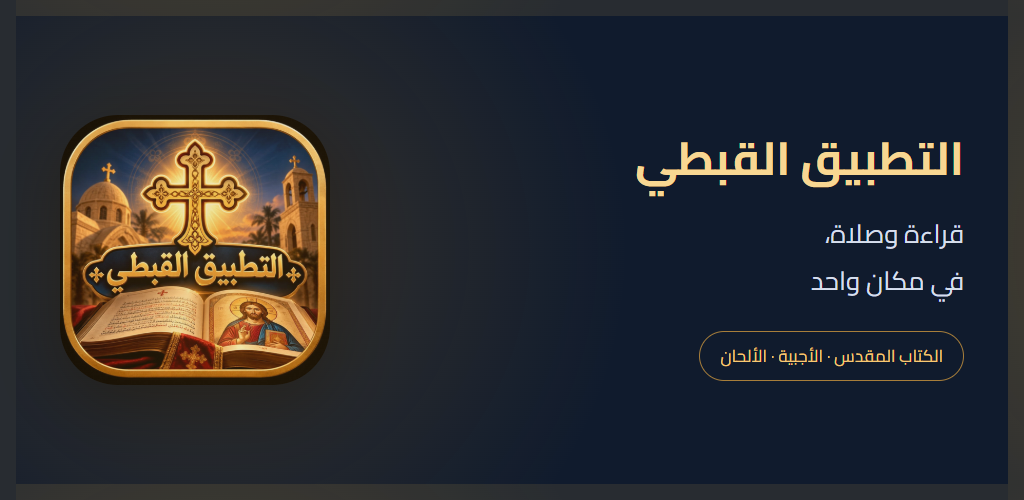
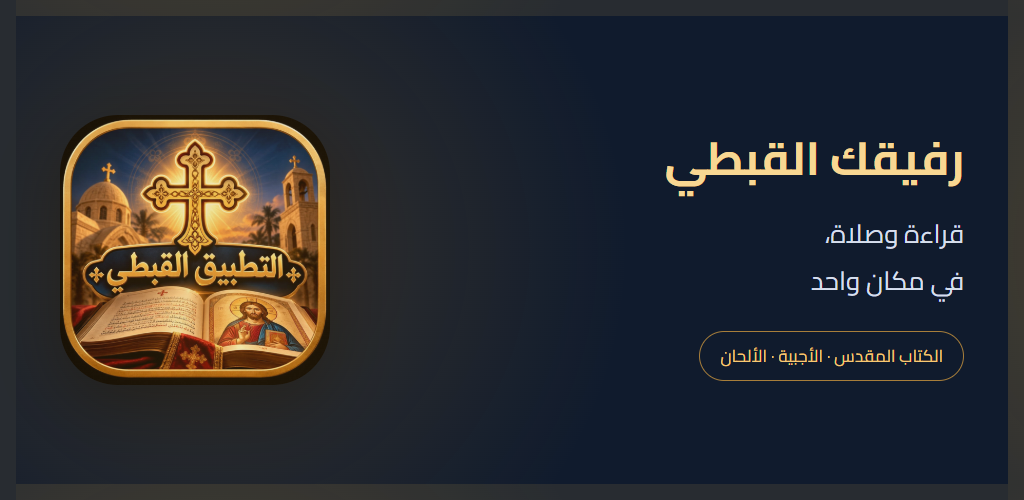
Adopt Rafiqak Coptic branding and prepare first Play listing

Changed region(s): [[0.625, 0.27, 0.9375, 0.39]]

diff --git a/privacy.html b/privacy.html
@@ -1,1 +1,1 @@
-<!doctype html><html lang="ar" dir="rtl"><head><meta charset="utf-8"><meta name="viewport" content="width=device-width,initial-scale=1"><title>الخصوصية — التطبيق القبطي</title><link rel="stylesheet" href="assets/fonts.css"><style>body{margin:0;background:#f6f2eb;color:#253244;font:17px/2 Cairo,sans-serif}main{max-width:820px;padding:32px 22px;margin:auto}h1,h2{color:#895e24}h2{font-size:1.2em}a{color:#895e24}small{color:#526079}</style></head><body><main><a href="index.html">العودة للتطبيق</a><h1>سياسة الخصوصية</h1><small>آخر تحديث: ١٤ أكتوبر ٢٠٢٦</small><p>توضح هذه الصفحة طريقة التعامل مع البيانات في «التطبيق القبطي»، بما في ذلك نسخة أندرويد. لا تحتاج القراءة إلى إنشاء حساب.</p><h2>بياناتك على الجهاز</h2><p>تُحفظ النوتات والمفضلة وآخر قراءة وإعدادات العرض على جهازك. لا يرفع التطبيق هذه البيانات تلقائيًا لخادم، ولا توجد مزامنة حسابات. حذف التطبيق أو بياناته قد يحذفها؛ استخدم النسخ الاحتياطي قبل تغيير الجهاز. ملفات التصدير تتضمن البيانات التي اخترت حفظها، وعند مشاركتها تصبح الجهة التي تختارها مسؤولة عن نسختها.</p><h2>مساعد الإيمان</h2><p>عند إرسال سؤال، تُرسل صياغة السؤال وبعض الرسائل السابقة والنصوص المرتبطة به عبر HTTPS إلى خادم التطبيق على Vercel، ثم إلى خدمة Gamaliel لإنتاج الإجابة. لا تُرسل النوتات أو المفضلة لهذا الغرض. المحادثة الحالية موجودة في ذاكرة الصفحة ولا يحفظها التطبيق بعد إعادة فتحه. قد تعالج خدمات الاستضافة ومزود الذكاء الاصطناعي بيانات الاتصال والسجلات الفنية حسب سياساتها؛ لا نفترض أن هذه الجهات لا تحتفظ بأي سجلات. تجنب إرسال معلومات شخصية أو حساسة في الأسئلة.</p><h2>الصوت والخدمات الخارجية</h2><p>تحتاج تسجيلات تسبحة ومشغلات SoundCloud والقطمارس إلى الإنترنت. عند استخدام خدمة خارجية، قد يصل إليها عنوان IP وبيانات المتصفح أو المشغّل، وقد تستخدم ملفات ارتباط حسب سياستها. مشغّل SoundCloud لا يُحمّل إلا عند طلب عرضه. روابط المصادر تفتح خدمات مستقلة.</p><h2>الأذونات والإعلانات</h2><p>لا يطلب التطبيق الوصول إلى الكاميرا أو الميكروفون أو جهات الاتصال أو الموقع. اختيار ملف احتياطي يتم عبر منتقي الملفات الخاص بالجهاز. مشاركة نسخة احتياطية تستخدم نافذة المشاركة التي تختار منها الوجهة. لا يضيف التطبيق إعلانات أو أدوات تتبع تحليلية خاصة به؛ الخدمات الخارجية قد تكون لها ممارسات مختلفة.</p><h2>التحكم والتواصل</h2><p>يمكنك حذف نوتاتك من داخل التطبيق، أو مسح بيانات التطبيق من إعدادات أندرويد لحذف البيانات المحلية كلها. يمكن الإبلاغ عن مشكلة خصوصية في <a href="https://github.com/marcoehaab11/amegoo/issues">صفحة الدعم</a>. لا تضع معلومات شخصية في البلاغ العام.</p><p>سياسات مزودي الخدمات: <a href="https://vercel.com/legal/privacy-policy">Vercel</a>، <a href="https://soundcloud.com/pages/privacy">SoundCloud</a>، <a href="https://gamaliel.ai">Gamaliel</a>.</p><h2>إشعارات الآية اليومية</h2><p>إشعارات أندرويد اختيارية. نطلب إذن الإشعارات عند تفعيلها فقط. الآيات والموعد محفوظان على الجهاز، ويُجدول الإشعار محليًا دون إرسال بيانات إلى خادم. يمكن إيقافها أو تغيير وقتها من الإعدادات.</p></main></body></html>
+<!doctype html><html lang="ar" dir="rtl"><head><meta charset="utf-8"><meta name="viewport" content="width=device-width,initial-scale=1"><title>الخصوصية — رفيقك القبطي</title><link rel="stylesheet" href="assets/fonts.css"><style>body{margin:0;background:#f6f2eb;color:#253244;font:17px/2 Cairo,sans-serif}main{max-width:820px;padding:32px 22px;margin:auto}h1,h2{color:#895e24}h2{font-size:1.2em}a{color:#895e24}small{color:#526079}</style></head><body><main><a href="index.html">العودة للتطبيق</a><h1>سياسة الخصوصية</h1><small>آخر تحديث: ١٤ أكتوبر ٢٠٢٦</small><p>توضح هذه الصفحة طريقة التعامل مع البيانات في «رفيقك القبطي»، بما في ذلك نسخة أندرويد. لا تحتاج القراءة إلى إنشاء حساب.</p><h2>بياناتك على الجهاز</h2><p>تُحفظ النوتات والمفضلة وآخر قراءة وإعدادات العرض على جهازك. لا يرفع التطبيق هذه البيانات تلقائيًا لخادم، ولا توجد مزامنة حسابات. حذف التطبيق أو بياناته قد يحذفها؛ استخدم النسخ الاحتياطي قبل تغيير الجهاز. ملفات التصدير تتضمن البيانات التي اخترت حفظها، وعند مشاركتها تصبح الجهة التي تختارها مسؤولة عن نسختها.</p><h2>مساعد الإيمان</h2><p>عند إرسال سؤال، تُرسل صياغة السؤال وبعض الرسائل السابقة والنصوص المرتبطة به عبر HTTPS إلى خادم التطبيق على Vercel، ثم إلى خدمة Gamaliel لإنتاج الإجابة. لا تُرسل النوتات أو المفضلة لهذا الغرض. المحادثة الحالية موجودة في ذاكرة الصفحة ولا يحفظها التطبيق بعد إعادة فتحه. قد تعالج خدمات الاستضافة ومزود الذكاء الاصطناعي بيانات الاتصال والسجلات الفنية حسب سياساتها؛ لا نفترض أن هذه الجهات لا تحتفظ بأي سجلات. تجنب إرسال معلومات شخصية أو حساسة في الأسئلة.</p><h2>الصوت والخدمات الخارجية</h2><p>تحتاج تسجيلات تسبحة ومشغلات SoundCloud والقطمارس إلى الإنترنت. عند استخدام خدمة خارجية، قد يصل إليها عنوان IP وبيانات المتصفح أو المشغّل، وقد تستخدم ملفات ارتباط حسب سياستها. مشغّل SoundCloud لا يُحمّل إلا عند طلب عرضه. روابط المصادر تفتح خدمات مستقلة.</p><h2>الأذونات والإعلانات</h2><p>لا يطلب التطبيق الوصول إلى الكاميرا أو الميكروفون أو جهات الاتصال أو الموقع. اختيار ملف احتياطي يتم عبر منتقي الملفات الخاص بالجهاز. مشاركة نسخة احتياطية تستخدم نافذة المشاركة التي تختار منها الوجهة. لا يضيف التطبيق إعلانات أو أدوات تتبع تحليلية خاصة به؛ الخدمات الخارجية قد تكون لها ممارسات مختلفة.</p><h2>التحكم والتواصل</h2><p>يمكنك حذف نوتاتك من داخل التطبيق، أو مسح بيانات التطبيق من إعدادات أندرويد لحذف البيانات المحلية كلها. يمكن الإبلاغ عن مشكلة خصوصية في <a href="https://github.com/marcoehaab11/amegoo/issues">صفحة الدعم</a>. لا تضع معلومات شخصية في البلاغ العام.</p><p>سياسات مزودي الخدمات: <a href="https://vercel.com/legal/privacy-policy">Vercel</a>، <a href="https://soundcloud.com/pages/privacy">SoundCloud</a>، <a href="https://gamaliel.ai">Gamaliel</a>.</p><h2>إشعارات الآية اليومية</h2><p>إشعارات أندرويد اختيارية. نطلب إذن الإشعارات عند تفعيلها فقط. الآيات والموعد محفوظان على الجهاز، ويُجدول الإشعار محليًا دون إرسال بيانات إلى خادم. يمكن إيقافها أو تغيير وقتها من الإعدادات.</p></main></body></html>

diff --git a/sw.js b/sw.js
@@ -1,4 +1,4 @@
-const CACHE="amegoo-74dc6dffd122";const CORE=["index.html","manifest.webmanifest","assets/app.css","assets/app.js","assets/data/agpeya.js","assets/data/bible/1.js","assets/data/bible/10.js","assets/data/bible/11.js","assets/data/bible/12.js","assets/data/bible/13.js","assets/data/bible/14.js","assets/data/bible/15.js","assets/data/bible/16.js","assets/data/bible/17.js","assets/data/bible/18.js","assets/data/bible/19.js","assets/data/bible/2.js","assets/data/bible/20.js","assets/data/bible/21.js","assets/data/bible/22.js","assets/data/bible/23.js","assets/data/bible/24.js","assets/data/bible/25.js","assets/data/bible/26.js","assets/data/bible/27.js","assets/data/bible/28.js","assets/data/bible/29.js","assets/data/bible/3.js","assets/data/bible/30.js","assets/data/bible/31.js","assets/data/bible/32.js","assets/data/bible/33.js","assets/data/bible/34.js","assets/data/bible/35.js","assets/data/bible/36.js","assets/data/bible/37.js","assets/data/bible/38.js","assets/data/bible/39.js","assets/data/bible/4.js","assets/data/bible/40.js","assets/data/bible/41.js","assets/data/bible/42.js","assets/data/bible/43.js","assets/data/bible/44.js","assets/data/bible/45.js","assets/data/bible/46.js","assets/data/bible/47.js","assets/data/bible/48.js","assets/data/bible/49.js","assets/data/bible/5.js","assets/data/bible/50.js","assets/data/bible/51.js","assets/data/bible/52.js","assets/data/bible/53.js","assets/data/bible/54.js","assets/data/bible/55.js","assets/data/bible/56.js","assets/data/bible/57.js","assets/data/bible/58.js","assets/data/bible/59.js","assets/data/bible/6.js","assets/data/bible/60.js","assets/data/bible/61.js","assets/data/bible/62.js","assets/data/bible/63.js","assets/data/bible/64.js","assets/data/bible/65.js","assets/data/bible/66.js","assets/data/bible/7.js","assets/data/bible/8.js","assets/data/bible/9.js","assets/data/deuterocanonical.js","assets/data/education.js","assets/fonts/65e3e6fe6af66bb6.ttf","assets/fonts/7ecb9b6a465072bc.ttf","assets/fonts/7f19c4a5dc77b0ef.ttf","assets/fonts/accb750bc74f1b44.ttf","assets/fonts/cad8564334938a58.ttf","assets/fonts/ed4acaa1f0bc9976.ttf","assets/fonts/NotoSansCoptic-Regular.ttf","assets/fonts.css","assets/icons/app-192.png","assets/icons/app-512.png","assets/icons/app.svg","favicon.ico","assets/icons/favicon-16.png","assets/icons/favicon-32.png","assets/icons/favicon-48.png","assets/icons/apple-touch-icon.png","assets/hymns/mary2/page-1.svg","assets/hymns/mary2/original-1.jpg","assets/hymns/mary2/page-2.svg","assets/hymns/mary2/original-2.jpg","assets/hymns/mary2/page-3.svg","assets/hymns/mary2/original-3.jpg","assets/hymns/mary2/transcription.json","assets/hymns/hoss3/page-244.jpg","assets/hymns/hoss3/page-245.jpg","assets/hymns/hoss3/page-246.jpg","assets/hymns/hoss3/page-247.jpg","assets/hymns/hoss3/page-248.jpg","assets/hymns/hoss3/page-249.jpg","assets/faith-chat.js","assets/reading-layout.css","assets/data/hymn-audio.js","assets/hymn-player.js","assets/faith-loading.css","assets/mobile-app.css","assets/settings.js","privacy.html","assets/data/daily-verses.json"];
+const CACHE="amegoo-cc4891c36bae";const CORE=["index.html","manifest.webmanifest","assets/app.css","assets/app.js","assets/data/agpeya.js","assets/data/bible/1.js","assets/data/bible/10.js","assets/data/bible/11.js","assets/data/bible/12.js","assets/data/bible/13.js","assets/data/bible/14.js","assets/data/bible/15.js","assets/data/bible/16.js","assets/data/bible/17.js","assets/data/bible/18.js","assets/data/bible/19.js","assets/data/bible/2.js","assets/data/bible/20.js","assets/data/bible/21.js","assets/data/bible/22.js","assets/data/bible/23.js","assets/data/bible/24.js","assets/data/bible/25.js","assets/data/bible/26.js","assets/data/bible/27.js","assets/data/bible/28.js","assets/data/bible/29.js","assets/data/bible/3.js","assets/data/bible/30.js","assets/data/bible/31.js","assets/data/bible/32.js","assets/data/bible/33.js","assets/data/bible/34.js","assets/data/bible/35.js","assets/data/bible/36.js","assets/data/bible/37.js","assets/data/bible/38.js","assets/data/bible/39.js","assets/data/bible/4.js","assets/data/bible/40.js","assets/data/bible/41.js","assets/data/bible/42.js","assets/data/bible/43.js","assets/data/bible/44.js","assets/data/bible/45.js","assets/data/bible/46.js","assets/data/bible/47.js","assets/data/bible/48.js","assets/data/bible/49.js","assets/data/bible/5.js","assets/data/bible/50.js","assets/data/bible/51.js","assets/data/bible/52.js","assets/data/bible/53.js","assets/data/bible/54.js","assets/data/bible/55.js","assets/data/bible/56.js","assets/data/bible/57.js","assets/data/bible/58.js","assets/data/bible/59.js","assets/data/bible/6.js","assets/data/bible/60.js","assets/data/bible/61.js","assets/data/bible/62.js","assets/data/bible/63.js","assets/data/bible/64.js","assets/data/bible/65.js","assets/data/bible/66.js","assets/data/bible/7.js","assets/data/bible/8.js","assets/data/bible/9.js","assets/data/deuterocanonical.js","assets/data/education.js","assets/fonts/65e3e6fe6af66bb6.ttf","assets/fonts/7ecb9b6a465072bc.ttf","assets/fonts/7f19c4a5dc77b0ef.ttf","assets/fonts/accb750bc74f1b44.ttf","assets/fonts/cad8564334938a58.ttf","assets/fonts/ed4acaa1f0bc9976.ttf","assets/fonts/NotoSansCoptic-Regular.ttf","assets/fonts.css","assets/icons/app-192.png","assets/icons/app-512.png","assets/icons/app.svg","favicon.ico","assets/icons/favicon-16.png","assets/icons/favicon-32.png","assets/icons/favicon-48.png","assets/icons/apple-touch-icon.png","assets/hymns/mary2/page-1.svg","assets/hymns/mary2/original-1.jpg","assets/hymns/mary2/page-2.svg","assets/hymns/mary2/original-2.jpg","assets/hymns/mary2/page-3.svg","assets/hymns/mary2/original-3.jpg","assets/hymns/mary2/transcription.json","assets/hymns/hoss3/page-244.jpg","assets/hymns/hoss3/page-245.jpg","assets/hymns/hoss3/page-246.jpg","assets/hymns/hoss3/page-247.jpg","assets/hymns/hoss3/page-248.jpg","assets/hymns/hoss3/page-249.jpg","assets/faith-chat.js","assets/reading-layout.css","assets/data/hymn-audio.js","assets/hymn-player.js","assets/faith-loading.css","assets/mobile-app.css","assets/settings.js","privacy.html","assets/data/daily-verses.json"];
 self.addEventListener('install',event=>event.waitUntil(caches.open(CACHE).then(cache=>cache.addAll(CORE)).then(()=>self.skipWaiting())));
 self.addEventListener('activate',event=>event.waitUntil(caches.keys().then(keys=>Promise.all(keys.filter(key=>key.startsWith('amegoo-')&&key!==CACHE).map(key=>caches.delete(key)))).then(()=>self.clients.claim())));
 self.addEventListener('fetch',event=>{const req=event.request;const url=new URL(req.url);if(url.pathname.startsWith('/api/'))return;if(req.method!=='GET'||url.origin!==self.location.origin)return;

diff --git a/index.html b/index.html
@@ -10,7 +10,7 @@
     <meta name="theme-color" content="#0f172a">
     <meta name="apple-mobile-web-app-capable" content="yes">
     <meta name="viewport" content="width=device-width, initial-scale=1.0, viewport-fit=cover">
-    <title>التطبيق القبطي - الكتاب المقدس</title>
+    <title>رفيقك القبطي - الكتاب المقدس</title>
     <!-- Google Fonts & Font Awesome Icons -->
 
     <link rel="stylesheet" href="assets/fonts.css">
@@ -24,12 +24,12 @@
 <section class="settings-group"><h3>المظهر والقراءة</h3><div class="settings-row"><label for="settingsTheme">مظهر التطبيق<small>فاتح، داكن، أو حسب جهازك</small></label><select id="settingsTheme"><option value="system">حسب الجهاز</option><option value="dark">داكن</option><option value="light">فاتح</option></select></div><div class="settings-row"><label for="settingsFont">حجم خط القراءة</label><output id="settingsFontValue"></output></div><input id="settingsFont" class="settings-font" type="range" min="1" max="2.2" step=".05" aria-label="حجم خط القراءة"><p class="settings-example">كَلَامُكَ سِرَاجٌ لِرِجْلِي وَنُورٌ لِسَبِيلِي.</p><div class="settings-row"><label for="settingsMotion">تقليل الحركة<small>عرض أهدأ بدون تأثيرات متحركة</small></label><input id="settingsMotion" type="checkbox"></div></section>
 <section class="settings-group"><h3>الصوت</h3><div class="settings-row"><label for="settingsSpeed">سرعة الألحان<small>تُطبق على المشغّل الصوتي المباشر</small></label><select id="settingsSpeed"><option value="0.75">٠٫٧٥×</option><option value="1">١×</option><option value="1.25">١٫٢٥×</option><option value="1.5">١٫٥×</option></select></div><p class="settings-info">الكتب والنصوص متاحة بدون إنترنت. التسجيلات الخارجية والقطمارس والمساعد تحتاج اتصالًا.</p></section>
 <section class="settings-group" id="dailyVerseSettings"><h3>آية كل يوم</h3><p class="settings-info" id="dailyVerseInfo">الإشعارات اليومية متاحة في تطبيق أندرويد. الآيات محفوظة داخل التطبيق ولا تحتاج إنترنت.</p><div class="settings-row"><label for="dailyVerseEnabled">إشعار الآية اليومية<small>آية مختلفة كل يوم من الكتاب المقدس</small></label><input id="dailyVerseEnabled" type="checkbox" disabled></div><div class="settings-row"><label for="dailyVerseTime">وقت الإشعار</label><input id="dailyVerseTime" type="time" value="09:00" disabled></div><p class="settings-example" id="dailyVersePreview"></p><div class="settings-actions"><button type="button" class="kh-button" id="dailyVerseTest" disabled>جرّب الإشعار</button><button type="button" class="kh-button" id="dailyVerseRead" hidden>اقرأ آية اليوم</button></div><p id="dailyVerseStatus" class="settings-info" role="status" aria-live="polite"></p></section><section class="settings-group"><h3>نسختك الاحتياطية</h3><p class="settings-info">احفظ النوتات والمفضلة والإعدادات في ملف تحتفظ به عند تغيير الجهاز.</p><div class="settings-actions"><button type="button" class="kh-button" id="settingsExport">تصدير نسخة</button><button type="button" class="kh-button" id="settingsImport">استعادة نسخة</button></div><input hidden id="settingsBackupFile" type="file" accept="application/json,.json"></section>
-<section class="settings-group"><h3>عن التطبيق</h3><p class="settings-info">التطبيق القبطي · الإصدار ١٫٠٫١<br>محتوى للقراءة والصلاة ودراسة الإيمان.<br><a href="privacy.html" target="_blank" rel="noopener">سياسة الخصوصية</a></p><div class="settings-actions"><button type="button" class="kh-button" id="settingsShare">مشاركة التطبيق</button><button type="button" class="kh-button" id="settingsReset">إعدادات العرض الافتراضية</button></div></section><p id="settingsStatus" class="settings-info" role="status"></p></div>
+<section class="settings-group"><h3>عن التطبيق</h3><p class="settings-info">رفيقك القبطي · الإصدار ١٫٠٫٢<br>محتوى للقراءة والصلاة ودراسة الإيمان.<br><a href="privacy.html" target="_blank" rel="noopener">سياسة الخصوصية</a></p><div class="settings-actions"><button type="button" class="kh-button" id="settingsShare">مشاركة التطبيق</button><button type="button" class="kh-button" id="settingsReset">إعدادات العرض الافتراضية</button></div></section><p id="settingsStatus" class="settings-info" role="status"></p></div>
 
     <!-- Step 3: Main Dashboard -->
     <div class="selection-card dashboard-card" id="dashboardCard">
         <div class="header">
-            <h2>مرحباً بك في التطبيق القبطي</h2>
+            <h2>أهلاً بك في رفيقك القبطي</h2>
             <p>اختر من الخدمات والمحتويات التالية:</p>
         </div>
 

diff --git a/store/feature.html b/store/feature.html
@@ -1,1 +1,1 @@
-<!doctype html><html lang="ar" dir="rtl"><head><meta charset="utf-8"><link rel="stylesheet" href="../assets/fonts.css"><style>*{box-sizing:border-box}body{margin:0;width:1024px;height:500px;background:#101b2d;color:#fff;font-family:Cairo,sans-serif;overflow:hidden}.pattern{position:absolute;inset:0;background:radial-gradient(circle at 20% 50%,#b982293d,transparent 50%);border:16px solid #c59a4822}.content{height:100%;padding:60px;display:flex;align-items:center;gap:60px}.copy{flex:1}h1{font-size:46px;color:#f8d792;line-height:1.7;margin:0}p{font-size:26px;line-height:1.8;color:#d6dfed;margin:14px 0}.tag{display:inline-block;color:#f7c973;border:1px solid #a77e3a;border-radius:999px;font-size:17px;padding:8px 20px;margin-top:12px}.logo{width:270px;height:270px;border-radius:58px;box-shadow:0 18px 70px #0007}</style></head><body><div class="pattern"></div><div class="content"><div class="copy"><h1>التطبيق القبطي</h1><p>قراءة وصلاة،<br>في مكان واحد</p><span class="tag">الكتاب المقدس · الأجبية · الألحان</span></div><img class="logo" src="../assets/icons/app-512.png" alt=""></div></body></html>
+<!doctype html><html lang="ar" dir="rtl"><head><meta charset="utf-8"><link rel="stylesheet" href="../assets/fonts.css"><style>*{box-sizing:border-box}body{margin:0;width:1024px;height:500px;background:#101b2d;color:#fff;font-family:Cairo,sans-serif;overflow:hidden}.pattern{position:absolute;inset:0;background:radial-gradient(circle at 20% 50%,#b982293d,transparent 50%);border:16px solid #c59a4822}.content{height:100%;padding:60px;display:flex;align-items:center;gap:60px}.copy{flex:1}h1{font-size:46px;color:#f8d792;line-height:1.7;margin:0}p{font-size:26px;line-height:1.8;color:#d6dfed;margin:14px 0}.tag{display:inline-block;color:#f7c973;border:1px solid #a77e3a;border-radius:999px;font-size:17px;padding:8px 20px;margin-top:12px}.logo{width:270px;height:270px;border-radius:58px;box-shadow:0 18px 70px #0007}</style></head><body><div class="pattern"></div><div class="content"><div class="copy"><h1>رفيقك القبطي</h1><p>قراءة وصلاة،<br>في مكان واحد</p><span class="tag">الكتاب المقدس · الأجبية · الألحان</span></div><img class="logo" src="../assets/icons/app-512.png" alt=""></div></body></html>

diff --git a/mobile/native-bridge.js b/mobile/native-bridge.js
@@ -5,8 +5,8 @@ import {Filesystem,Directory,Encoding} from '@capacitor/filesystem';
 const DailyVerse=registerPlugin('DailyVerse');
 if(Capacitor.isNativePlatform()){
  window.NativeApp={
-  async shareBackup(text){const file=await Filesystem.writeFile({path:'amegoo-backup-'+Date.now()+'.json',data:text,directory:Directory.Cache,encoding:Encoding.UTF8});await Share.share({title:'نسخة احتياطية — التطبيق القبطي',files:[file.uri]});},
-  async shareApp(){await Share.share({title:'التطبيق القبطي',text:'الكتاب المقدس والأجبية والألحان والشرح في مكان واحد',url:'https://amegoo.vercel.app'});},
+  async shareBackup(text){const file=await Filesystem.writeFile({path:'amegoo-backup-'+Date.now()+'.json',data:text,directory:Directory.Cache,encoding:Encoding.UTF8});await Share.share({title:'نسخة احتياطية — رفيقك القبطي',files:[file.uri]});},
+  async shareApp(){await Share.share({title:'رفيقك القبطي',text:'الكتاب المقدس والأجبية والألحان والشرح في مكان واحد',url:'https://amegoo.vercel.app'});},
   async setTheme(light){await SystemBars.setStyle({style:light?SystemBarsStyle.Light:SystemBarsStyle.Dark});}
  };
  document.addEventListener('DOMContentLoaded',()=>{

diff --git a/ANDROID_TESTING.md b/ANDROID_TESTING.md
@@ -30,3 +30,7 @@ The pre-existing emulator was unresponsive at the system level. A separate works
 - Network disabled through CDP: local verse preview and dialog remained available after reload. No horizontal overflow or JavaScript errors.
 - First launch did not prompt for notification permission. Permission request is confined to explicit opt-in; the API 33+ granted-permission path was tested with the dedicated emulator's permission manager. Android system permission dialog interaction, reboot delivery and actual next-day timing still require physical-device checks.
 - Daily scheduling uses an app-private receiver and one inexact alarm; each daily delivery schedules the next local calendar day. Duplicate daily delivery is suppressed by saved date. Boot/time/time-zone/app-update broadcasts reschedule; force-stop requires reopening the app. No exact-alarm permission or notification server.
+
+## Naming update — 1.0.2
+
+User-approved name: رفيقك القبطي. APK/AAB build completed. AAPT confirms versionName 1.0.2, versionCode 3 and the Android launcher label. Existing logo retained. Google Play app draft exists in the publisher account; upload signing awaits permitted execution. The unsigned AAB must not be uploaded as a production artifact.

diff --git a/ANDROID_BUILD.md b/ANDROID_BUILD.md
@@ -26,3 +26,7 @@ $env:JAVA_TOOL_OPTIONS = '-Djava.nio.channels.spi.SelectorProvider=sun.nio.ch.Wi
 ```
 
 Daily verses use the app-owned DailyVerse Capacitor plugin and one inexact Android alarm. Sources are assets/data/daily-verses.json, extracted verbatim from the bundled Bible. Notification scheduling needs no backend, exact-alarm permission or signing secret. Version 1.0.1 (code 2) replaces the initial test build.
+
+## Upload key for the first Google Play release
+
+An app-specific RSA upload key is kept outside the Git checkout in the workspace signing directory. Its password is stored with Windows DPAPI for the current Windows user, not in this repository or the deliverable source ZIP. Back up the private keystore and export the password securely from the same Windows account before moving computers or reinstalling Windows. Never upload the private key or password to GitHub. The upload key is separate from Google-managed Play App Signing.

diff --git a/store/listing-ar.md b/store/listing-ar.md
@@ -1,6 +1,6 @@
 # مسودة صفحة المتجر
 
-الاسم: التطبيق القبطي
+الاسم: رفيقك القبطي
 
 الوصف القصير: الكتاب المقدس والأجبية والألحان والشرح، مع قراءة مريحة ونسخ احتياطي.
 
@@ -20,3 +20,5 @@
 الدعم والخصوصية والبيانات القانونية للناشر تُراجع في Play Console قبل النشر. هذا الوصف مسودة، ولا يدل على نشر التطبيق أو اعتماده من جهة كنسية.
 
 ميزة إضافية: آية يومية اختيارية مع تحديد الوقت وإشعارات محلية بدون إنترنت.
+
+بريد الدعم المعتمد: marcoehab1235@gmail.com
